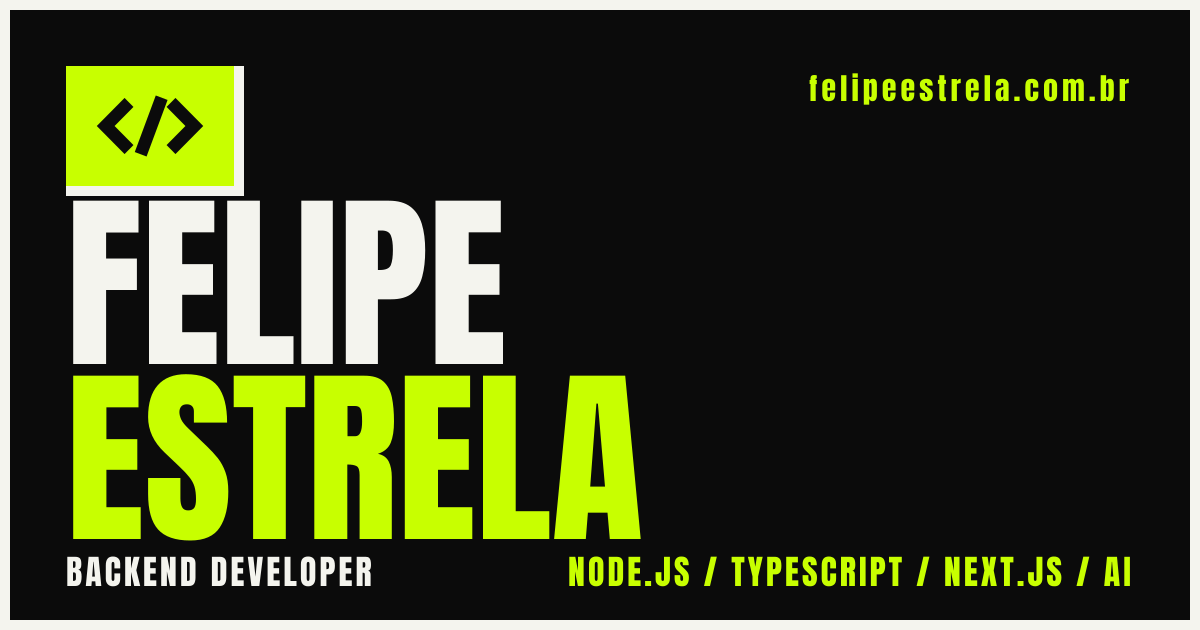
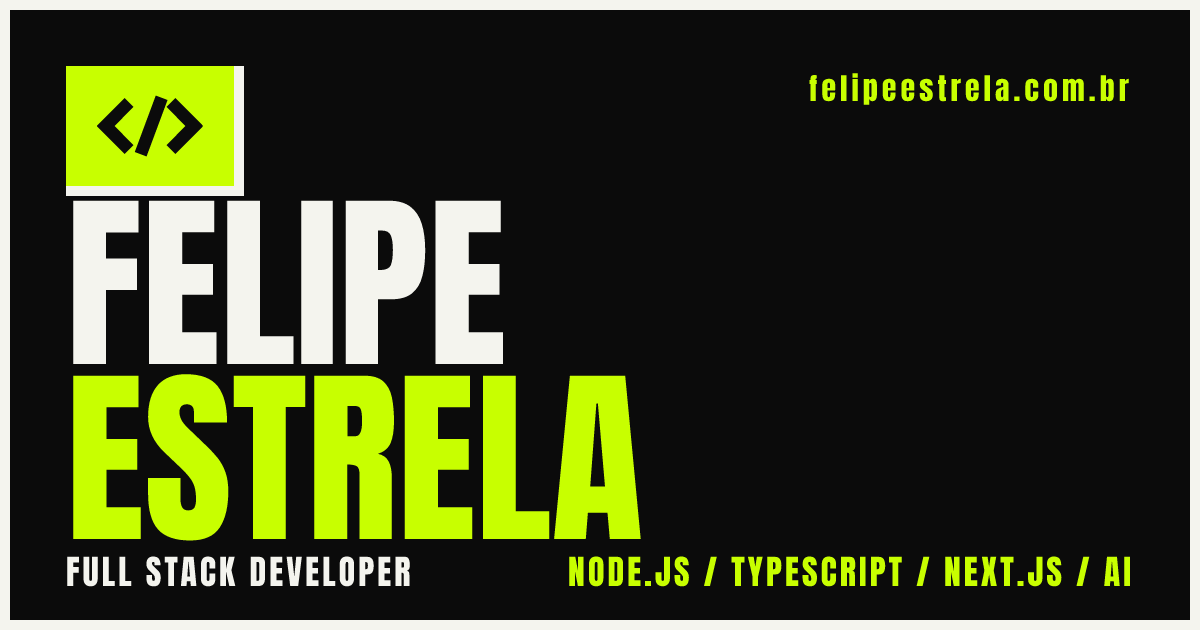
Change Backend Developer to Full Stack Developer across the site and the preview image

Changed region(s): [[0.0617, 0.8746, 0.3392, 0.9349]]

diff --git a/src/lib/content.ts b/src/lib/content.ts
@@ -10,9 +10,9 @@ export const LINKS = {
 
 const pt = {
   meta: {
-    title: "Felipe Estrela | Desenvolvedor Backend",
+    title: "Felipe Estrela | Desenvolvedor Full Stack",
     description:
-      "Portfólio de Felipe Estrela, desenvolvedor backend de Toledo, PR. Node.js, TypeScript, Next.js e automações com IA.",
+      "Portfólio de Felipe Estrela, desenvolvedor full stack de Toledo, PR. Node.js, TypeScript, Next.js e automações com IA.",
   },
   skip: "Pular para o conteúdo",
   preloader: "Carregando portfólio",
@@ -26,7 +26,7 @@ const pt = {
     close: "Fechar",
   },
   hero: {
-    eyebrow: "Desenvolvedor backend",
+    eyebrow: "Desenvolvedor full stack",
     base: "Toledo, PR, Brasil",
     role: "Node.js, TypeScript e automações com IA que aguentam produção.",
     ctaProjects: "Ver projetos",
@@ -186,9 +186,9 @@ export type Dict = typeof pt;
 
 const en: Dict = {
   meta: {
-    title: "Felipe Estrela | Backend Developer",
+    title: "Felipe Estrela | Full Stack Developer",
     description:
-      "Portfolio of Felipe Estrela, backend developer from Toledo, Brazil. Node.js, TypeScript, Next.js and AI automation.",
+      "Portfolio of Felipe Estrela, full stack developer from Toledo, Brazil. Node.js, TypeScript, Next.js and AI automation.",
   },
   skip: "Skip to content",
   preloader: "Loading portfolio",
@@ -202,7 +202,7 @@ const en: Dict = {
     close: "Close",
   },
   hero: {
-    eyebrow: "Backend developer",
+    eyebrow: "Full stack developer",
     base: "Toledo, PR, Brazil",
     role: "Node.js, TypeScript and AI automation built to survive production.",
     ctaProjects: "See projects",
@@ -360,9 +360,9 @@ const en: Dict = {
 
 const es: Dict = {
   meta: {
-    title: "Felipe Estrela | Desarrollador Backend",
+    title: "Felipe Estrela | Desarrollador Full Stack",
     description:
-      "Portafolio de Felipe Estrela, desarrollador backend de Toledo, Brasil. Node.js, TypeScript, Next.js y automatizaciones con IA.",
+      "Portafolio de Felipe Estrela, desarrollador full stack de Toledo, Brasil. Node.js, TypeScript, Next.js y automatizaciones con IA.",
   },
   skip: "Saltar al contenido",
   preloader: "Cargando portafolio",
@@ -376,7 +376,7 @@ const es: Dict = {
     close: "Cerrar",
   },
   hero: {
-    eyebrow: "Desarrollador backend",
+    eyebrow: "Desarrollador full stack",
     base: "Toledo, PR, Brasil",
     role: "Node.js, TypeScript y automatizaciones con IA hechas para aguantar producción.",
     ctaProjects: "Ver proyectos",

diff --git a/src/app/layout.tsx b/src/app/layout.tsx
@@ -20,7 +20,7 @@ export const metadata: Metadata = {
     url: "/",
     type: "website",
     locale: "en_US",
-    images: [{ url: "/og.png", width: 1200, height: 630, alt: "Felipe Estrela, Backend Developer" }],
+    images: [{ url: "/og.png", width: 1200, height: 630, alt: "Felipe Estrela, Full Stack Developer" }],
   },
   twitter: {
     card: "summary_large_image",

diff --git a/README.md b/README.md
@@ -1,6 +1,6 @@
 # Portfólio de Felipe Estrela
 
-Portfólio pessoal de **Felipe Estrela**, desenvolvedor backend de Toledo, Paraná, Brasil. Um site de página única em **Next.js**, com visual brutalista em preto, off-white e verde limão, tipografia gigante, ângulos retos em tudo e animações com **GSAP** e **Motion**.
+Portfólio pessoal de **Felipe Estrela**, desenvolvedor full stack de Toledo, Paraná, Brasil. Um site de página única em **Next.js**, com visual brutalista em preto, off-white e verde limão, tipografia gigante, ângulos retos em tudo e animações com **GSAP** e **Motion**.
 
 Pensado para rodar em [felipeestrela.com.br](https://felipeestrela.com.br).
 
